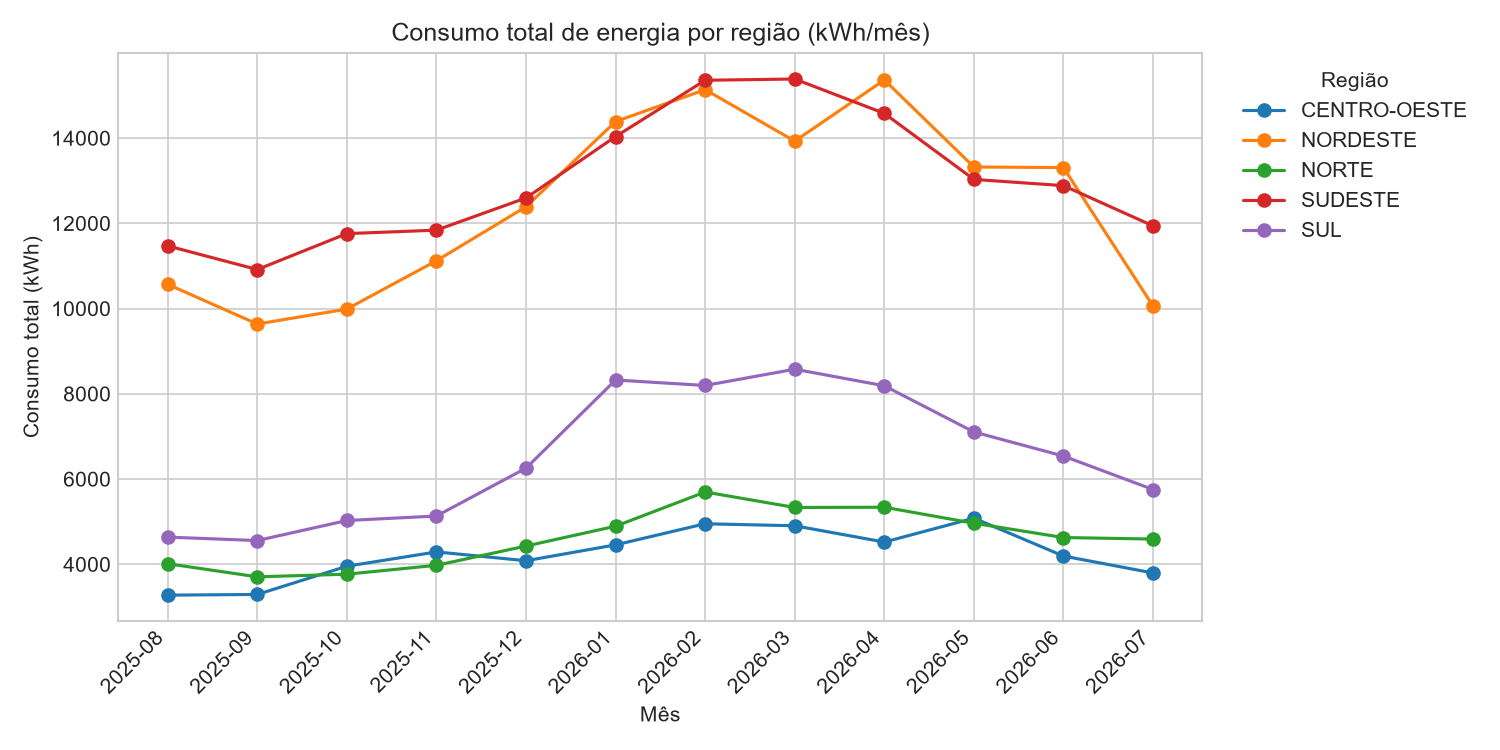
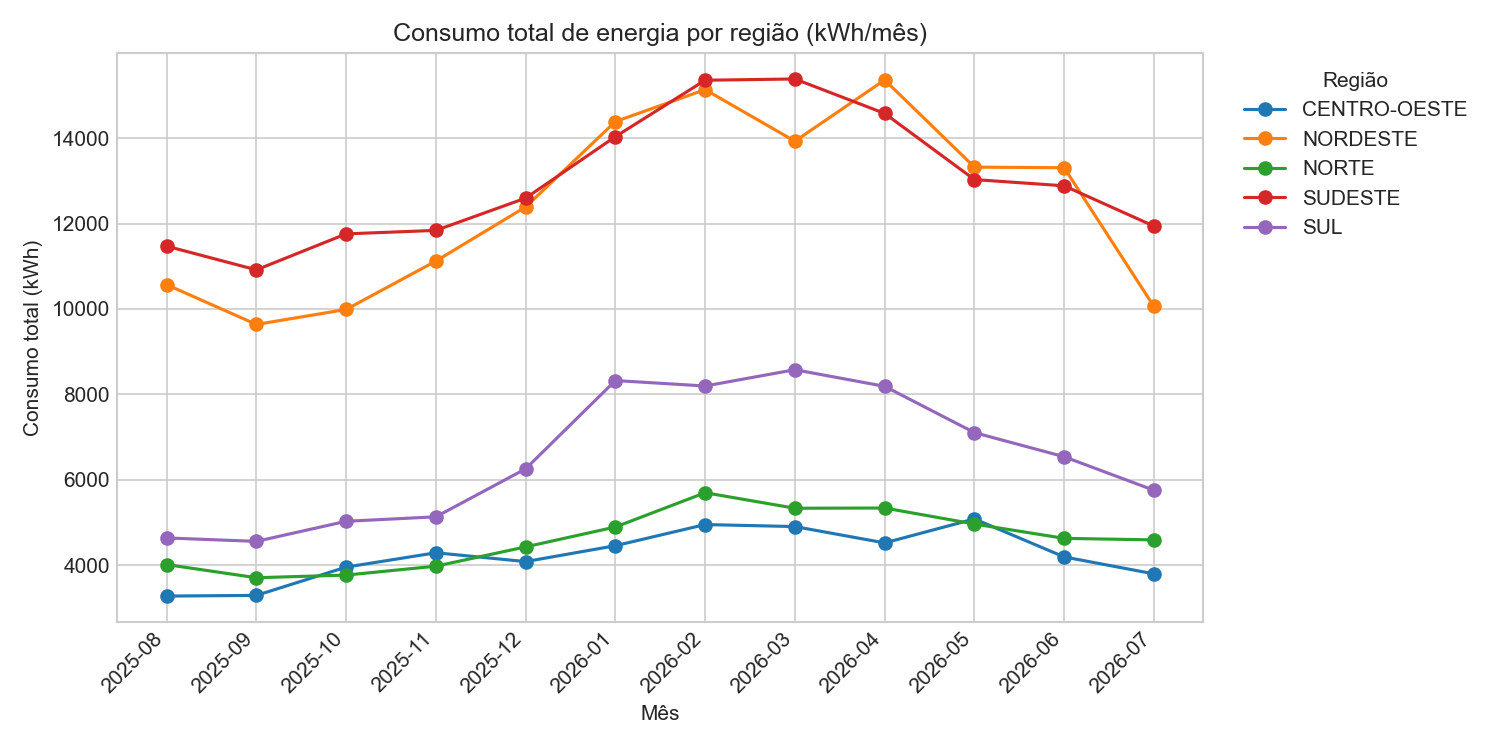
docs: polish repository for GitHub publication

diff --git a/src/common/paths.py b/src/common/paths.py
@@ -1,7 +1,7 @@
-"""Backward-compatible path exports. Prefer :mod:`common.config` in new code."""
+"""Backward-compatible path exports. Prefer :mod:`src.common.config` in new code."""
 from pathlib import Path
 
-from common.config import PATHS, get_pipeline_paths
+from src.common.config import PATHS, get_pipeline_paths
 
 DATA_DIR: Path = PATHS.data
 

diff --git a/README.md b/README.md
@@ -1,72 +1,91 @@
 <h1 align="center">⚡ Utilities Medallion Pipeline</h1>
+
 <p align="center">A local-first Data Engineering portfolio project for utility-energy consumption analytics.</p>
+
 <p align="center">
   <img src="https://img.shields.io/badge/Python-3.10%2B-3776AB?logo=python&logoColor=white" alt="Python">
   <img src="https://img.shields.io/badge/Apache%20Airflow-2.9.3-017CEE?logo=apacheairflow&logoColor=white" alt="Apache Airflow">
   <img src="https://img.shields.io/badge/Docker-Compose-2496ED?logo=docker&logoColor=white" alt="Docker">
   <img src="https://img.shields.io/badge/Pytest-tested-0A9EDC?logo=pytest&logoColor=white" alt="Pytest">
+  <a href="https://github.com/arthurczo/utilities-etl-pipeline/actions/workflows/ci.yml"><img src="https://github.com/arthurczo/utilities-etl-pipeline/actions/workflows/ci.yml/badge.svg" alt="CI status"></a>
   <img src="https://img.shields.io/badge/License-MIT-22C55E" alt="MIT License">
-  <img src="https://img.shields.io/badge/GitHub%20Actions-CI-2088FF?logo=githubactions&logoColor=white" alt="GitHub Actions">
 </p>
 
-## Features
+## Project overview
 
-- Medallion pipeline with atomic Parquet artifacts: Bronze → Silver → Gold.
-- Data quality controls, regional IQR outlier flags and deterministic CDC simulation.
-- Production-minded daily Airflow DAG with retries, timeout and no backfill.
-- Optional BigQuery serving layer; all core functionality runs locally.
-- Streamlit + Plotly dashboard reading the latest Gold artifacts.
+This project processes synthetic utility meter readings through a Medallion pipeline and exposes business-ready consumption metrics. It demonstrates data quality controls, deterministic file-based CDC, Airflow orchestration and an interactive local dashboard—without requiring cloud credentials.
 
 ## Architecture
 
-<p align="center"><img src="assets/architecture.svg" alt="Utilities platform architecture" width="100%"></p>
+<p align="center"><img src="assets/architecture.svg" alt="Utilities platform architecture" width="100%"><br><em>Local-first Medallion processing with optional BigQuery and Looker Studio serving layers.</em></p>
+
+## Technology stack
+
+Python · Pandas · PyArrow · Apache Airflow · Docker Compose · Streamlit · Plotly · Pytest · Optional Google BigQuery
+
+## Medallion architecture
+
+| Layer | Responsibility | Output |
+|---|---|---|
+| Bronze | Preserves source data and ingestion metadata. | `bronze_*.parquet` |
+| Silver | Validates, types, standardizes, deduplicates and flags IQR outliers. | `silver_*.parquet` |
+| Gold | Produces regional monthly metrics and a top-consumer ranking. | `gold_*.parquet` |
+
+CDC uses stable SHA-256 row hashes with a local checkpoint. Writes are atomic so incomplete Parquet artifacts are never published.
 
 ## Pipeline flow
 
-<p align="center"><img src="assets/pipeline-flow.svg" alt="Daily ETL flow" width="100%"></p>
+<p align="center"><img src="assets/pipeline-flow.svg" alt="Daily pipeline flow" width="100%"><br><em>Airflow schedules daily processing; CDC observes inserts and updates without blocking ingestion.</em></p>
 
 ## Dashboard
 
-The local dashboard provides KPI cards, filters for region/month/consumer, and interactive views for trends, regional consumption, top consumers and outlier distribution. It never requires GCP.
+The Streamlit dashboard reads the latest Gold artifacts from `data/gold/`. It includes KPI cards and filters for region, month and consumer, plus interactive Plotly views for consumption trends, regional totals, top consumers and outlier distribution.
 
-```bash
-streamlit run dashboard/app.py
-```
+<p align="center"><img src="assets/dashboard-preview.png" alt="Utilities dashboard overview" width="100%"><br><em>Dashboard overview generated from the local Gold layer.</em></p>
 
-It reads `data/gold/` generated by the ETL. If artifacts are absent, run the pipeline first.
+<p align="center"><img src="assets/dashboard-monthly-trend.png" alt="Monthly consumption trend" width="48%"> <img src="assets/dashboard-consumption-by-region.png" alt="Consumption by region" width="48%"><br><em>Interactive dashboard views: monthly trend and regional consumption.</em></p>
 
-## Screenshots
+## Airflow orchestration
 
-<p align="center">
-  <img src="reports/consumo_mensal_por_regiao.png" alt="Monthly consumption by region" width="48%">
-  <img src="reports/ranking_unidades_consumidoras.png" alt="Consumer ranking" width="48%">
-</p>
+`utilities_medallion_pipeline` runs daily at 06:00 (America/Sao_Paulo), with two retries, a 20-minute task timeout, no catchup and one active run at a time. The DAG executes CDC → Bronze → Silver → Gold → charts.
 
-## Folder structure
+## Project structure
 
 ```text
-assets/       Architecture diagrams and real-demo recording guidance
-dashboard/    Streamlit dashboard and Pipeline Overview page
-dags/         Airflow orchestration
-src/          Medallion layers, CDC and visualization
-tests/        Focused business-rule tests
-data/         Local artifacts and state (ignored by Git)
+assets/       Diagrams, dashboard screenshots and demo guidance
+dashboard/    Streamlit app, page and reusable components
+dags/         Airflow DAG
+data/         Local source, Medallion artifacts and runtime state (ignored)
+src/          Bronze, Silver, Gold, CDC, visualization and shared utilities
+tests/        Focused business-rule and dashboard-data tests
 ```
 
-More detail: [PROJECT_STRUCTURE.md](PROJECT_STRUCTURE.md).
+See [PROJECT_STRUCTURE.md](PROJECT_STRUCTURE.md) for ownership details.
 
-## Running
+## Running locally
 
 ```bash
 python -m venv .venv
 # Windows: .venv\Scripts\activate | Linux/macOS: source .venv/bin/activate
 pip install -r requirements.txt
-make generate
-make run
+python scripts/generate_sample_data.py
+python -m src.bronze.ingest
+python -m src.silver.transform
+python -m src.gold.aggregate
+python -m src.visualization.generate_charts
 streamlit run dashboard/app.py
 ```
 
-For Airflow, run `docker compose up airflow-init` once, then `docker compose up`. Open `http://localhost:8081` with `admin` / `admin`.
+`make generate`, `make run` and `make test` provide the same shortcuts on systems with GNU Make.
+
+## Running with Docker
+
+```bash
+docker compose up airflow-init  # first run only
+docker compose up
+```
+
+Open `http://localhost:8081` and sign in with `admin` / `admin`. The Docker stack runs Airflow and Postgres; the dashboard remains a local Streamlit process.
 
 ## Testing
 
@@ -75,8 +94,16 @@ python -m pytest -q
 python -m compileall -q src dags scripts dashboard
 ```
 
-The GitHub Actions workflow runs the same checks on every push.
+GitHub Actions runs these checks on every push.
+
+## Results
+
+<p align="center"><img src="reports/consumo_mensal_por_regiao.png" alt="Monthly consumption by region report" width="48%"> <img src="reports/ranking_unidades_consumidoras.png" alt="Consumer ranking report" width="48%"><br><em>Static reports produced directly from Gold artifacts.</em></p>
 
 ## Future improvements
 
-See [ROADMAP.md](ROADMAP.md). The highest-value next steps are infrastructure-as-code for BigQuery/IAM and log-based CDC for a production source. For authentic demo recordings, see [assets/README.md](assets/README.md).
+See [ROADMAP.md](ROADMAP.md). The next highest-value improvements are infrastructure-as-code for BigQuery/IAM and log-based CDC for a production data source.
+
+## License
+
+Distributed under the [MIT License](LICENSE).

diff --git a/PROJECT_STRUCTURE.md b/PROJECT_STRUCTURE.md
@@ -1,12 +1,12 @@
 # Project structure
 
 ```text
-assets/       Versioned architecture diagrams and demo-recording guidance
-dashboard/    Streamlit app, page and reusable display/data components
+assets/       Versioned diagrams, dashboard screenshots and demo-recording guidance
+dashboard/    Streamlit app, page and reusable data/chart components
 dags/         Airflow orchestration
 data/         Local raw, Medallion artifacts and runtime state (ignored)
 src/          Pipeline implementation by layer
 tests/        Focused business-rule tests
 ```
 
-`src/common/` owns paths and atomic artifact I/O. Each Medallion layer owns only its transformation concern; orchestration remains in `dags/`.
+`src/common/` owns paths and atomic artifact I/O. Each Medallion layer owns its transformation concern; orchestration remains in `dags/` and presentation in `dashboard/`.

diff --git a/assets/README.md b/assets/README.md
@@ -1,10 +1,8 @@
 # Demo assets
 
-The architecture diagrams are versioned SVGs so they remain crisp in GitHub and presentations.
+The architecture diagrams are versioned SVGs so they remain crisp in GitHub and presentations. Dashboard screenshots are captured from the local Streamlit application using Gold artifacts.
 
-`dashboard-preview.png` is deliberately pending until a real Streamlit session can be captured. Do not replace it with a mock or generated screenshot: launch the dashboard against Gold artifacts and capture the rendered browser.
-
-The following files are intentionally **not** committed as fake demos:
+The following GIFs are intentionally **not** committed as fake demos:
 
 | Expected file | How to record |
 |---|---|

diff --git a/ROADMAP.md b/ROADMAP.md
@@ -2,7 +2,6 @@
 
 - [x] Local Medallion pipeline with quality controls and CDC simulation.
 - [x] Airflow orchestration and interactive local dashboard.
-- [ ] Add CI status badge after the first GitHub Actions run.
 - [ ] Provision BigQuery datasets and IAM with Terraform.
 - [ ] Replace file CDC with Debezium or Datastream for a production source.
 - [ ] Add data contracts and lineage metadata.

diff --git a/CHANGELOG.md b/CHANGELOG.md
@@ -1,10 +1,11 @@
 # Changelog
 
-## [Unreleased]
+## [0.2.0] - 2026-08-05
 
 ### Added
 - Local Streamlit dashboard and Pipeline Overview page.
 - Portfolio assets, GitHub Actions CI and contributor documentation.
+- Dashboard screenshots generated from the local Gold layer.
 
 ## [0.1.0] - 2026-08-05
 
